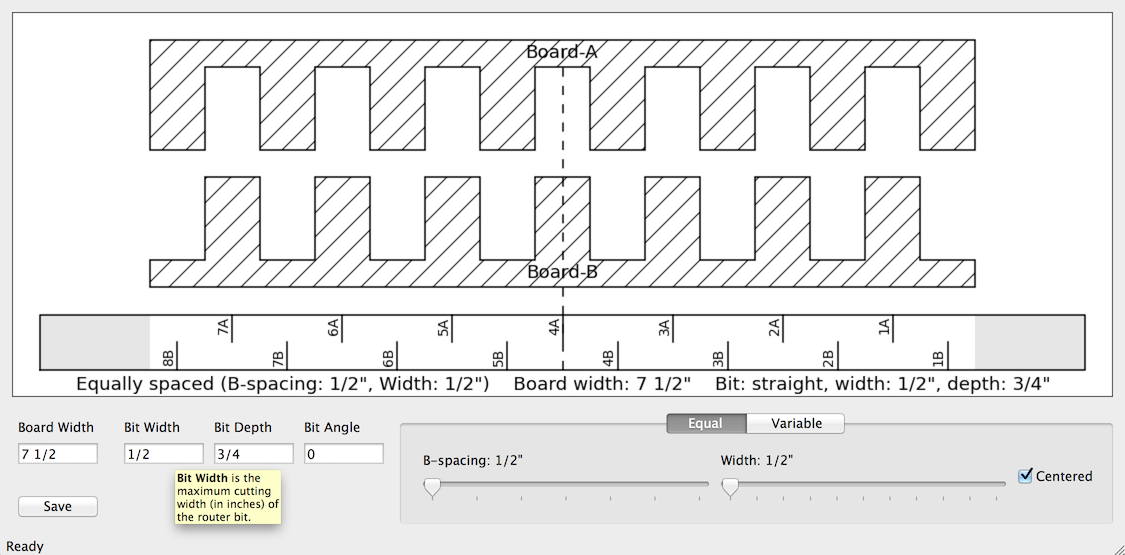
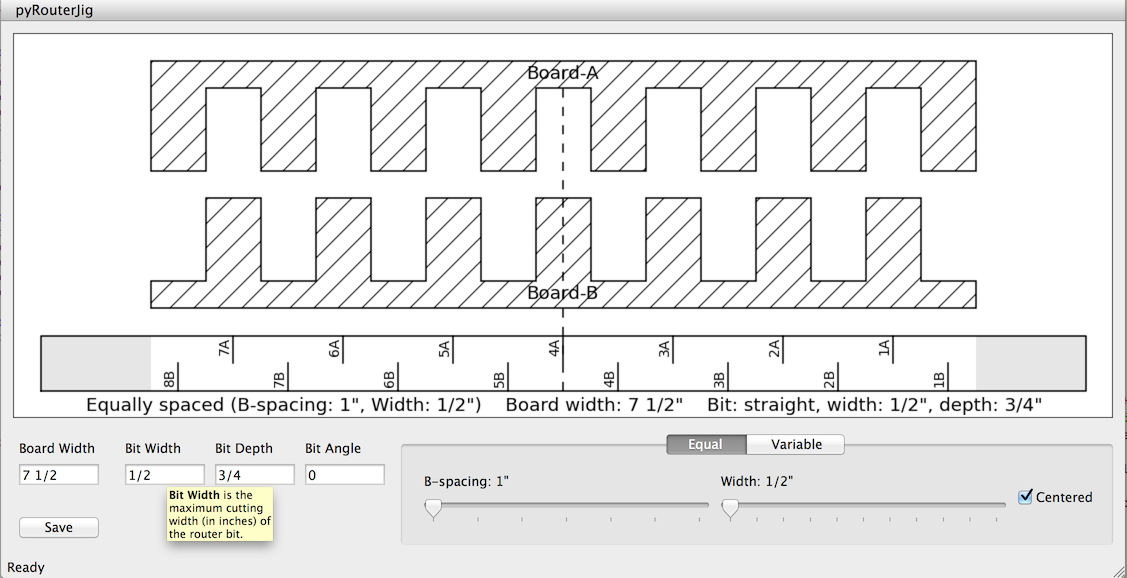
Lots of documentation cleanup and prettying.

diff --git a/_layouts/default.html b/_layouts/default.html
@@ -1,0 +1,23 @@
+<!DOCTYPE html>
+<html lang="en-us">
+  <head>
+    <meta charset="UTF-8">
+    <title>pyRouterJig by lowrie</title>
+    <meta name="viewport" content="width=device-width, initial-scale=1">
+    <link rel="stylesheet" type="text/css" href="stylesheets/normalize.css" media="screen">
+    <link href='https://fonts.googleapis.com/css?family=Open+Sans:400,700' rel='stylesheet' type='text/css'>
+    <link rel="stylesheet" type="text/css" href="stylesheets/stylesheet.css" media="screen">
+    <link rel="stylesheet" type="text/css" href="stylesheets/github-light.css" media="screen">
+  </head>
+  <body>
+    <section class="page-header">
+      <h1 class="project-name">{{ page.title }}</h1>
+    </section>
+    <section class="main-content">
+    {{ content }}
+    </section>
+<footer class="site-footer">
+   <span class="site-footer-owner"><a href="https://github.com/lowrie/pyRouterJig">pyRouterJig</a> is maintained by <a href="https://github.com/lowrie">lowrie</a>.</span>
+</footer>
+</body>
+</html>

diff --git a/documentation.md b/documentation.md
@@ -1,27 +1,41 @@
 ---
-title: Documentation
+layout: default
+title: pyRouterJig Documentation
 ---
 
 Using pyRouterJig
 ==================
 
+Note that pyRouterJig is in it\'s early development stage.  Many bugs likely
+still exist.  I know how frustrating it can be to try to get software to
+work.  If you contact me, I\'ll try to help, but please keep in mind that I also have a day job.
+
 When you start pyRouterJig, you should see something like the image below (the
 window may need to be resized in order to look exactly like this image):
 
-![Opening screenshot with tooltip on Bit Width]({{ site.baseurl }}/opening_screen_shot.png "Opening screenshot with tooltip on Bit Width")
+<figure>
+<img src="{{ site.baseurl }}/opening_screen_shot.png" alt="Opening screenshot with tooltip on Bit Width">
+<figcaption>
+<b>Figure 1.</b>  Opening screen shot.  The mouse cursor is located over the Bit Width
+text box, so that its tooltip appears.
+</figcaption>
+</figure>
 
 The default joint is a box joint, with the fingers equally spaced, over a
 width of 7 1/2\".  The upper portion of the window draws the current joint,
 with the labels \"Board-A\" and \"Board-B\" on the boards of the joint.  Below
 the boards is the corresponding Incra template.  This template may be cut out
 and used in an Incra LS Positioner.  Below the template is a concise title
-that summarizes the properties of the joint.  The figure containing the
+that summarizes the properties of the joint.  A vertical dashed line denotes
+the center of the boards.   The figure containing the
 boards, template, and title may be saved to a file by hitting the <b>Save</b>
 button on the lower left of the window, finding the <b>Save</b> option in the
 pull-down menus, or pressing the key combination `Ctrl-S`.
 
-Alos on the lower left of the window, you can see the following input parameters, 
-which are available for any finger-spacing algorithm:
+The lower part of the window allows you to interactively change the parameters
+for the joint.  The figure is re-drawn after each change.  At the lower left,
+you can see the following input parameters, which are available for any
+finger-spacing algorithm:
 
 * <b>Board Width [inches|mm]:</b> The board width of the joint.
 * <b>Bit Width [inches|mm]:</b>  The maximum cutting width of the router bit.
@@ -46,27 +60,42 @@ For example, the following are equivalent:
 Note that the whitespace around the \"`/`\" is ignored. Fractional values are not
 available for metric units.
 
-Also shown above is a \"tooltip\", which is a small window that appears when
+Also shown in Fig. 1 is a \"tooltip\", which is a small window that appears when
 you hover the mouse over an available parameter.  In the case above, the mouse
 is hovering above the <b>Bit Width</b> parameter.
+
+As an example, if we change <b>Bit Angle</b> to 7 degrees, we obtain the
+dovetail joint shown in Figure 2 below:
+
+<figure>
+<img src="{{ site.baseurl }}/dovetail_screen_shot.png" alt="Dovetail
+example.">
+<figcaption>
+<b>Figure 2.</b>  Dovetail example.  Compared to Fig. 1, the <b>Bit Angle</b>
+has been changed to 7 degrees.
+</figcaption>
+</figure>
 
 Throughout the documentation of pyRouterJig, we refer to a \"finger\" not only
 as the traditional finger of a box joint, but also generically to refer to a
 pin or tail of a dovetail joint.  There are currently two finger-spacing
 algorithms:
 
-* <b>Equal:</b> In this case, the fingers are equally spaced.
+* <b>Equal:</b> In this case, the fingers are equally spaced.  Figures 1 and 2
+  are examples.
   There are three inputs that affect this algorithm:
 
   1. <b>B-spacing:</b> This slider allows you to specify additional spacing between
-    the Board-B fingers.
+    the Board-B fingers.  Figure 3 shows an example of increasing this parameter.
   2. <b>Width:</b> This slider allows you to specify additional width added
-    to both Board-A and Board-B fingers.
+    to both Board-A and Board-B fingers.  
+    Figure 4 shows an example of increasing this parameter.
   3. <b>Centered:</b> This input is only available for straight bits (bit
     angle = 0).  If this box is checked, a finger is always centered on
     the board.  Otherwise, a full finger is started on the left edge, which
     will result in a centerd finger only if the finger width divides into the
     board width an odd number of times.
+    Figure 5 shows an example of a non-centered pattern.
 
 * <b>Variable:</b> In this case a large finger is centered on the board,
   and the fingers decrease in size proportional to the distance to the center.
@@ -77,6 +106,56 @@ algorithms:
     its maximum value, the width of the center finger is minimized, and the result is
     the same as equally-spaced with, zero \"B-spacing\", zero \"Width\", and
     the \"Centered\" option checked.
+
+Figure 6 shows an example of a Variable-spaced box joint.
+
+<figure>
+<img src="{{ site.baseurl }}/bspacing_screen_shot.png" alt="B-spacing example">
+<figcaption>
+<b>Figure 3.</b>  Effect of B-spacing option.  Compared to Fig. 1, the <b>B-spacing</b>
+slider been moved to a value of 1 17/32".
+</figcaption>
+</figure>
+
+<figure>
+<img src="{{ site.baseurl }}/width_screen_shot.png" alt="Width example.">
+<figcaption>
+<b>Figure 4.</b>  Effect of Width option.  Compared to Fig. 1, the <b>Width</b>
+slider been moved to a value of 27/32".
+</figcaption>
+</figure>
+
+<figure>
+<img src="{{ site.baseurl }}/centered_screen_shot.png" alt="Centered example.">
+<figcaption>
+<b>Figure 5.</b>  Effect of Centered option.  Compared to Fig. 1, the <b>Board
+Width</b> has been changed to 7" and the <b>Centered</b> option unclicked.
+</figcaption>
+</figure>
+
+<figure>
+<img src="{{ site.baseurl }}/variable_screen_shot.png" alt="Variable spacing example.">
+<figcaption>
+<b>Figure 6.</b>  Variable spacing option.  Compared to Fig. 1, the
+<b>Variable</b> tab has been clicked and the <b>Fingers</b> slider moved to a
+value of 5.
+</figcaption>
+</figure>
+
+The sliders can be moved by using either dragging the mouse, or my clicking on the
+slider and using the left and right arrow keys for small changes and Page Up
+and Page Down for large changes.
+
+Printing
+========
+
+For now, pyRouterJig does not have the capability to print the figure
+directly.  Instead, you must save the figure (described above) to a
+supported image format, and then print the image using another applicaiton.
+On the Mac, I prefer to save as a PDF file and use <b>Preview.app</b> to
+print.  For the Incra template, it\'s important that these operations maintain
+the true dimensions of the template on the printed page.  I\'m still working
+on methods to make this operation more reliable and to work on all computing platforms.
 
 Intervals
 =========
@@ -96,6 +175,35 @@ intervals, we ensure that it\'s possible to position the fence at the exact
 location desired.  More generally, using intervals (or \"integer arithmetic\")
 means that pyRouterJig does not need to be worried about floating-point
 errors.
+
+Incra Template
+==============
+
+As mentioned abvoe, the Incra template may be cut out and used in a Incra LS
+Positioner fence.  Referring to any of the figures above, the template needs
+some explaination:
+
+* I don\'t have a color printer.  So I decided to put the Board-A router passes on the
+  upper half of the template and the Board-A passes on the lower half.
+* The router passes are labeled with their ordering and the Board letter (A or B), unless
+  consecutve cuts are too close together.  An example is shown in Figure 6,
+  where the passes 3A, 9A, 2B, 3B, 11B, and 12B are not labeled. You should be able to figure out
+  the ordering from a neighboring pass that is labeled.
+* For cuts that are wider than the <b>Bit Width</b>, the passes are made
+  symmetric on the cut.  That is, at a minimum a pass is always placed
+  at the center and at least one more pass on either side of the center pass.
+  I assume this makes for more symmetric fingers, but I haven\'t tested this
+  extensively, and it does add to the number of passes you have to do.
+  Currently, there\'s no way to turn this "feature" off.
+* The gray regions are margins for the template, outside the board\'s width.
+  It\'s possible for a pass to be placed in the gray region, if the outer
+  fingers are narrower than the <b>Bit Width</b>.
+* Of course, it\'s critical that your printer not distort the template when
+  printing the template on paper.  I have a cheap inkjet printer that
+  consistently distorts the template about 1/32" over 4".  This is well
+  outside the accuracy of Incra fence.  Fortunately for me, a friend\'s laser printer
+  is very accurate.  After printing, make sure you check the dimensions of the template.
+
 
 Options File
 ============
@@ -117,37 +225,30 @@ Improvements Needed
 ===================
 
 I am looking for help to make the improvements outlined in this section.  I
-will certainly give credit to those who help make improvements.
+will certainly give credit to those who help make these or any other
+improvements!  If you\'re thinking of contributing, let me know, because I may
+have already started on some of these.
 
-Windows and Linux Support
--------------------------
-
-If you can help test and improve pyRouterJig on any platform, particularly
-Windows and Linux, please contact me.  Ideally, you know Python and can send
-me proposed patches (or pull requests on Github).
-
-Known Bugs
-----------
-
-1. The redraw after changing a parameter does not resize the figure in the
-same manner as resizing the window with your mouse.  In particular, if you
-can\'t see all of the figure, try resizing your window.
-
-Features
---------
-
-I\'m working on the following features, but would appreciate help:
-
-* Cleaning up and beautifying these web pages.
-* Define the option for \"fold-over templates\" that are appropriate for
-  hand-cut joints.  This would be an alternative to the Incra template.
-* More friendly error messages and handling.
-* Get rid of the dependence on matplotlib and use PyQt drawing
-  directly.  Accurate printing is needed.
-* More spacing options.
-* An interactive GUI to allow manual adjustment of fingers positions and
-  widths.
-* Consider relaxing the requirement that board and bit dimensions be exact multiples
-of intervals.
-* Move
-
+* Windows and Linux Support.  If you can help test and improve pyRouterJig on
+any platform, particularly Windows and Linux, please contact me.  Ideally, you
+know Python and can send me proposed patches (or pull requests on Github).
+* Known Bugs.
+  1. The redraw after changing a parameter does not resize the figure in the
+  same manner as resizing the window with your mouse.  In particular, if you
+  can\'t see all of the figure, try resizing your window.
+* Features. I\'m working on the following features, but would appreciate help:
+  * Cleaning up and beautifying these web pages.
+  * Define the option for \"fold-over templates\" that are appropriate for
+    hand-cut joints.  This would be an alternative to the Incra template.
+  * More friendly error messages and handling.
+  * Get rid of the dependence on matplotlib and use PyQt drawing
+    directly.  Accurate printing is needed.
+  * Allow one to print the figure directly, without having to save to a file
+    first and open the file in another application that is able to print it.
+    This is apparently a limitation of matplotlib.
+  * More spacing options.
+  * An interactive GUI to allow manual adjustment of finger positions and
+    widths.
+  * Consider relaxing the requirement that board and bit dimensions be exact multiples
+    of intervals.
+  * Double-joint support.

diff --git a/license.md b/license.md
@@ -1,11 +1,12 @@
 ---
-title: License
+layout: default
+title: pyRouterJig License
 ---
 
 Software License
 ================
 
-Copyright 2015 Robert B. Lowrie (pyrouterjig@lowrielodge.org)
+Copyright 2015 Robert B. Lowrie (@lowrie)
 
 pyRouterJig is free software: you can redistribute it and/or modify it under
 the terms of the GNU General Public License as published by the Free Software

diff --git a/installation.md b/installation.md
@@ -1,5 +1,6 @@
 ---
-title: Installation
+layout: default
+title: pyRouterJig Installation
 ---
 
 Prerequisites
